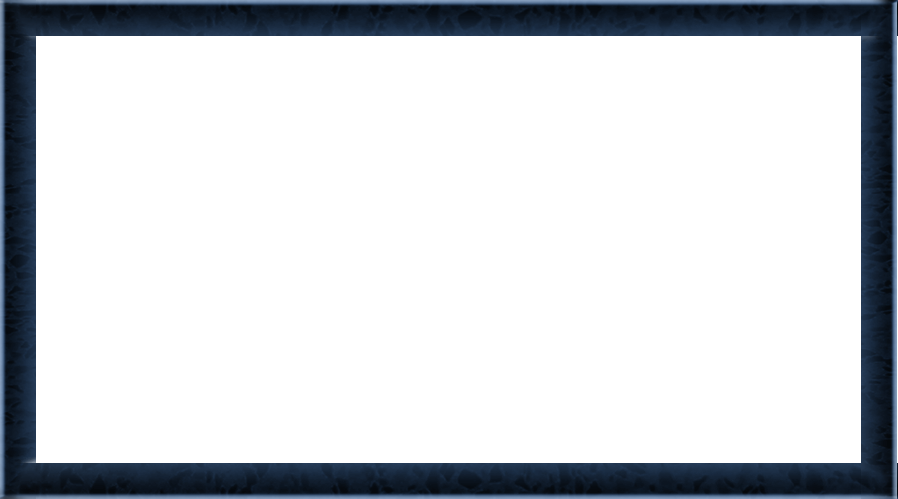
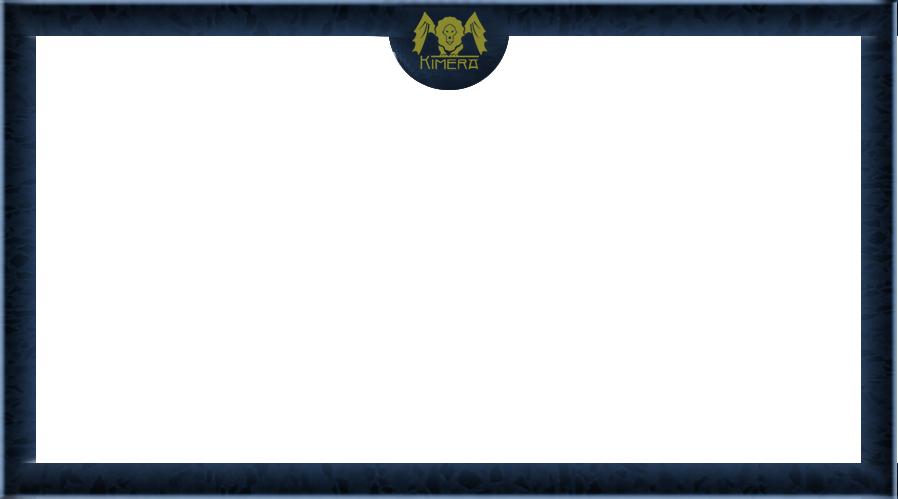
1. colocar o ícone no canto superior esquerdo; 2. subir as interfaces de pesquisas, de modo que seja evitado o scroll. 3. aumentar (lagura e altura) a tela de apresentação da interface do mapa

Changed region(s): [[0.4365, 0.0, 0.5612, 0.1804]]

diff --git a/kEarth/css/principal.css b/kEarth/css/principal.css
@@ -12,11 +12,10 @@ body{
 
 h1{
     background:url(../img/logotipo.png) no-repeat center center;
-    width: 244px;
-    height: 190px;
+    width: 100px;
+    height: 78px;
     display: block;
     text-indent: -10000px;
-    margin: 10px auto;
 }
 
 ul.lista{

diff --git a/kEarth/css/bootstrap.css b/kEarth/css/bootstrap.css
@@ -288,7 +288,7 @@ a:hover {
 .navbar-static-top .container,
 .navbar-fixed-top .container,
 .navbar-fixed-bottom .container {
-  width: 940px;
+  width: 75%;
 }
 
 .span12 {

diff --git a/kEarth/editor.php b/kEarth/editor.php
@@ -425,7 +425,7 @@
   
   <body>
     <div class="container">
-      <h1>Kimera - KEarth</h1>
+      <br />
     
       <div class="row-fluid">
         <div class="well span9">
